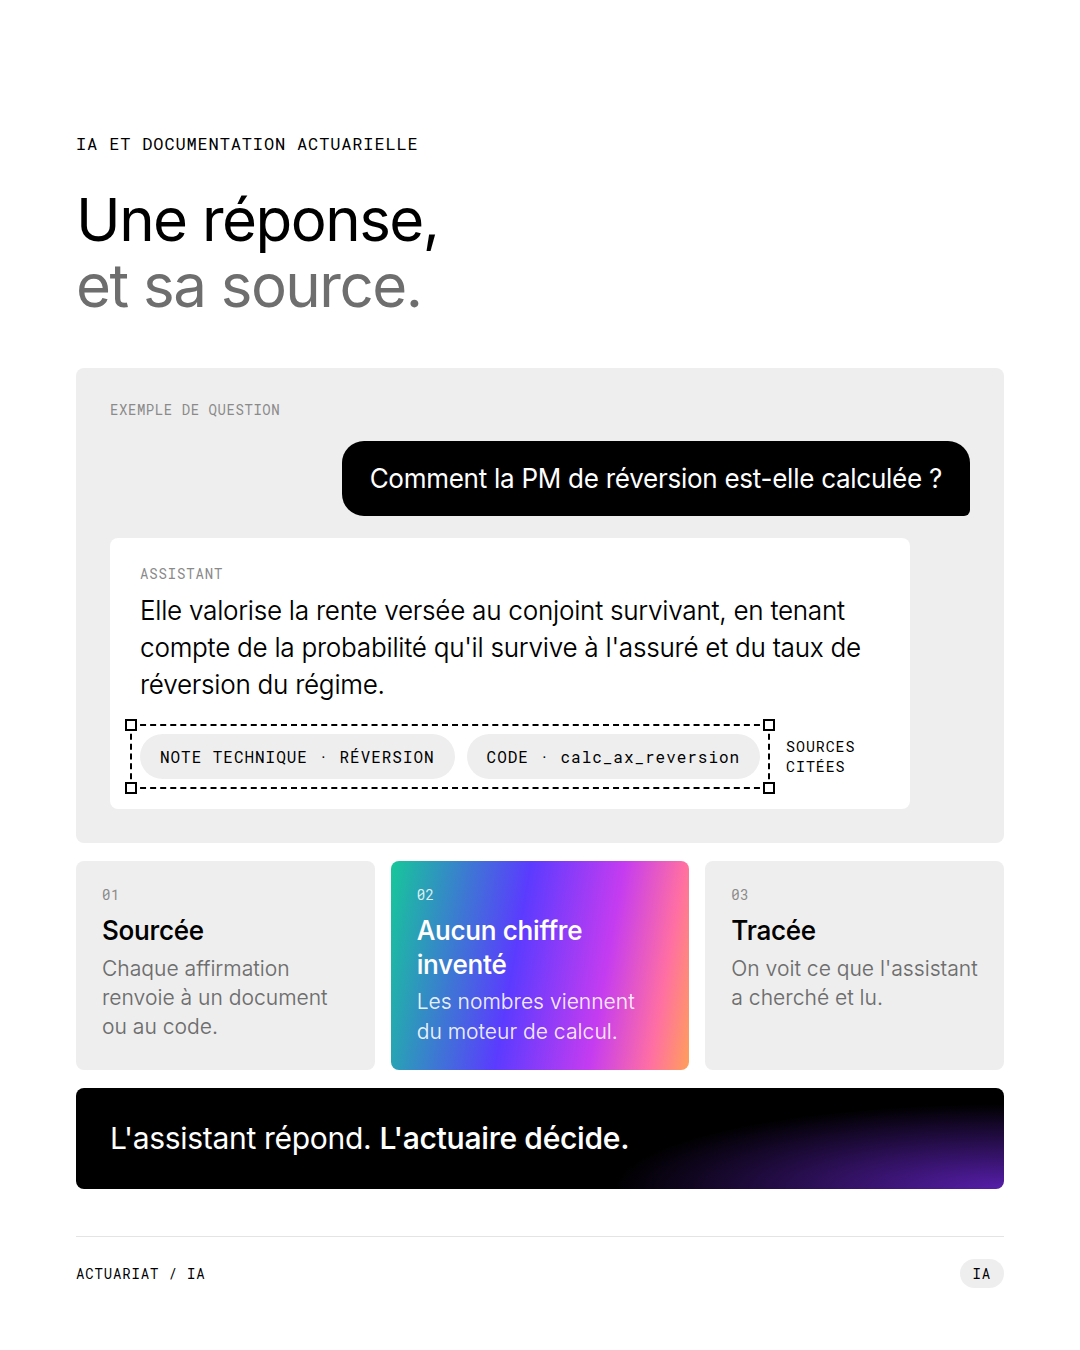
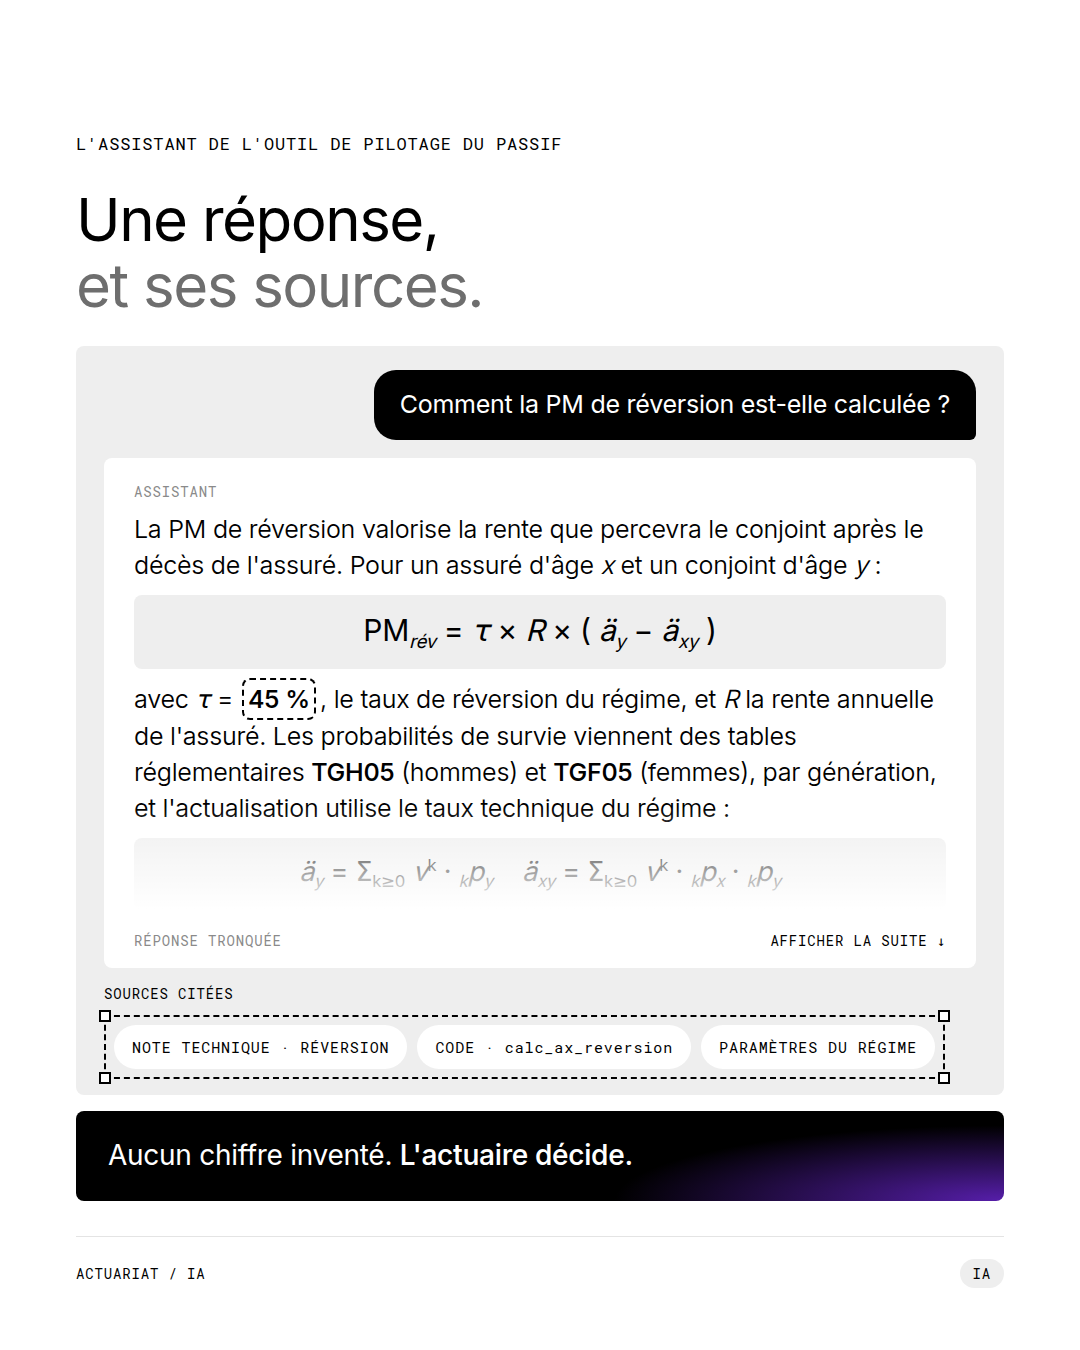
Recadre le post du 9 octobre sur l'assistant de l'outil du 30 septembre
Le texte présente l'assistant comme une brique de l'outil de pilotage
du passif déjà montré, et non comme un nouveau projet. Le visuel montre
une vraie réponse tronquée : formule de la PM de réversion, taux de
réversion de 45 %, tables TGH05 / TGF05 et sources citées.

Claude-Session: https://claude.ai/code/session_01SqKwB1xzpXhvhbbWiK7oQu

diff --git a/linkedin/2026-10-09/post.md b/linkedin/2026-10-09/post.md
@@ -1,4 +1,4 @@
-# Post 6 · vendredi 9 octobre 2026 · cas d'usage n°3
+# Post 6 · vendredi 9 octobre 2026 · zoom sur l'assistant de l'outil du 30 septembre
 
 **Pilier :** IA appliquée  
 **Format :** texte + visuel, question finale
@@ -13,7 +13,8 @@
 « Comment la réversion est-elle calculée ? »
 « D'où vient cet écart ? »
 
-Si votre équipe reçoit ce genre de questions, ce cas va vous parler.
+Le 30 septembre, je vous présentais un outil de pilotage du passif d'un fonds de pension. Il intègre un assistant qui répond à ce genre de questions.
+Zoom sur ce cas d'usage, qui vaut pour toute équipe actuarielle.
 
 𝘾𝙤𝙣𝙩𝙚𝙭𝙩𝙚
 Tout au long de l'année, l'équipe reçoit des questions sur ses méthodes et ses résultats : de l'audit, de la direction, des nouveaux arrivants.
@@ -37,7 +38,7 @@ Et c'est souvent la même personne qu'on sollicite.
 -> Une trace de chaque question et de chaque réponse
 
 𝙋𝙧é𝙨𝙚𝙣𝙩𝙖𝙩𝙞𝙤𝙣 𝙙𝙚 𝙡𝙖 𝙨𝙤𝙡𝙪𝙩𝙞𝙤𝙣
-Un assistant, accessible depuis l'application, qui répond en s'appuyant uniquement sur la documentation de l'équipe et sur le code des calculs.
+Un assistant, intégré à l'outil de pilotage du passif, qui répond en s'appuyant uniquement sur la documentation de l'équipe et sur le code des calculs.
 Chaque affirmation est sourcée : l'assistant indique le document ou la fonction d'où elle vient.
 Chaque chiffre vient du moteur de calcul, jamais de l'IA.
 Le raisonnement est visible : on voit ce que l'assistant a cherché et lu.
@@ -50,8 +51,6 @@ L'assistant répond. Il ne décide pas. Le choix des méthodes, l'interprétatio
 
 𝙋𝙧𝙤𝙡𝙤𝙣𝙜𝙚𝙢𝙚𝙣𝙩
 Ajouter les réponses déjà validées lors des audits précédents, pour que chaque réponse enrichisse la suivante.
-
-Cet assistant fait partie de PensionPro, l'application présentée le 30 septembre.
 
 Quelle question revient le plus souvent dans votre équipe ?
 ```

diff --git a/README.md b/README.md
@@ -12,4 +12,4 @@ Chaque post a son dossier, nommé par sa date de publication : le texte est dans
 | [2026-10-02](linkedin/2026-10-02/post.md) | Post 3 | Transformation | texte + sondage LinkedIn |
 | [2026-10-05](linkedin/2026-10-05/post.md) | Post 4 | Python / R / VBA | texte + visuel avant/après, question finale |
 | [2026-10-07](linkedin/2026-10-07/post.md) | Post 5 | IA appliquée | texte + schéma, question finale |
-| [2026-10-09](linkedin/2026-10-09/post.md) | Post 6 | IA appliquée | texte + visuel, question finale |
+| [2026-10-09](linkedin/2026-10-09/post.md) | Post 6 (zoom sur l'assistant de l'outil du 30/09) | IA appliquée | texte + visuel, question finale |
